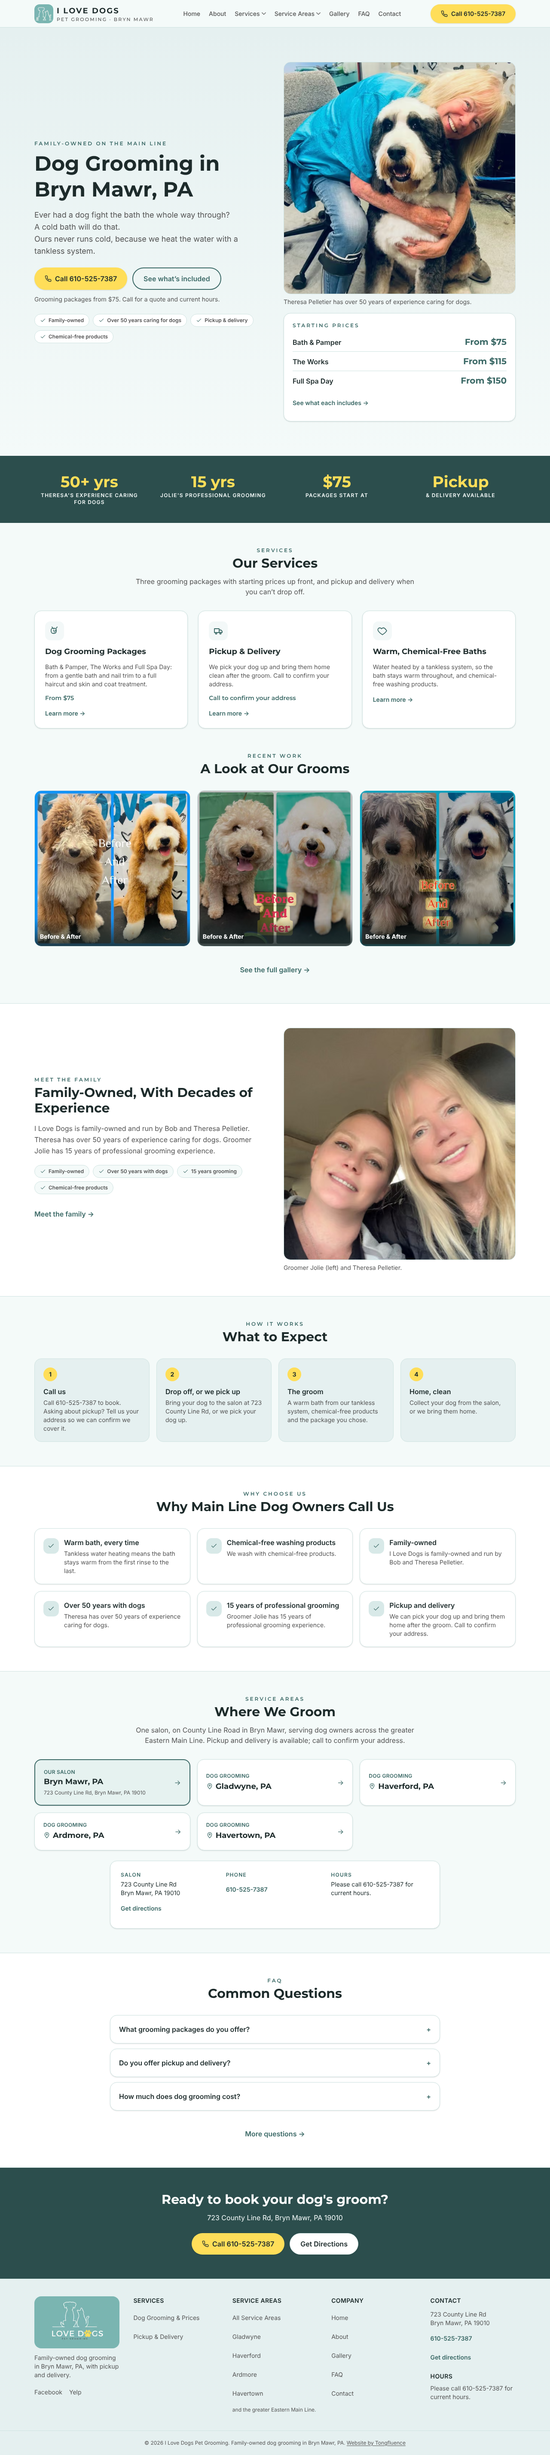
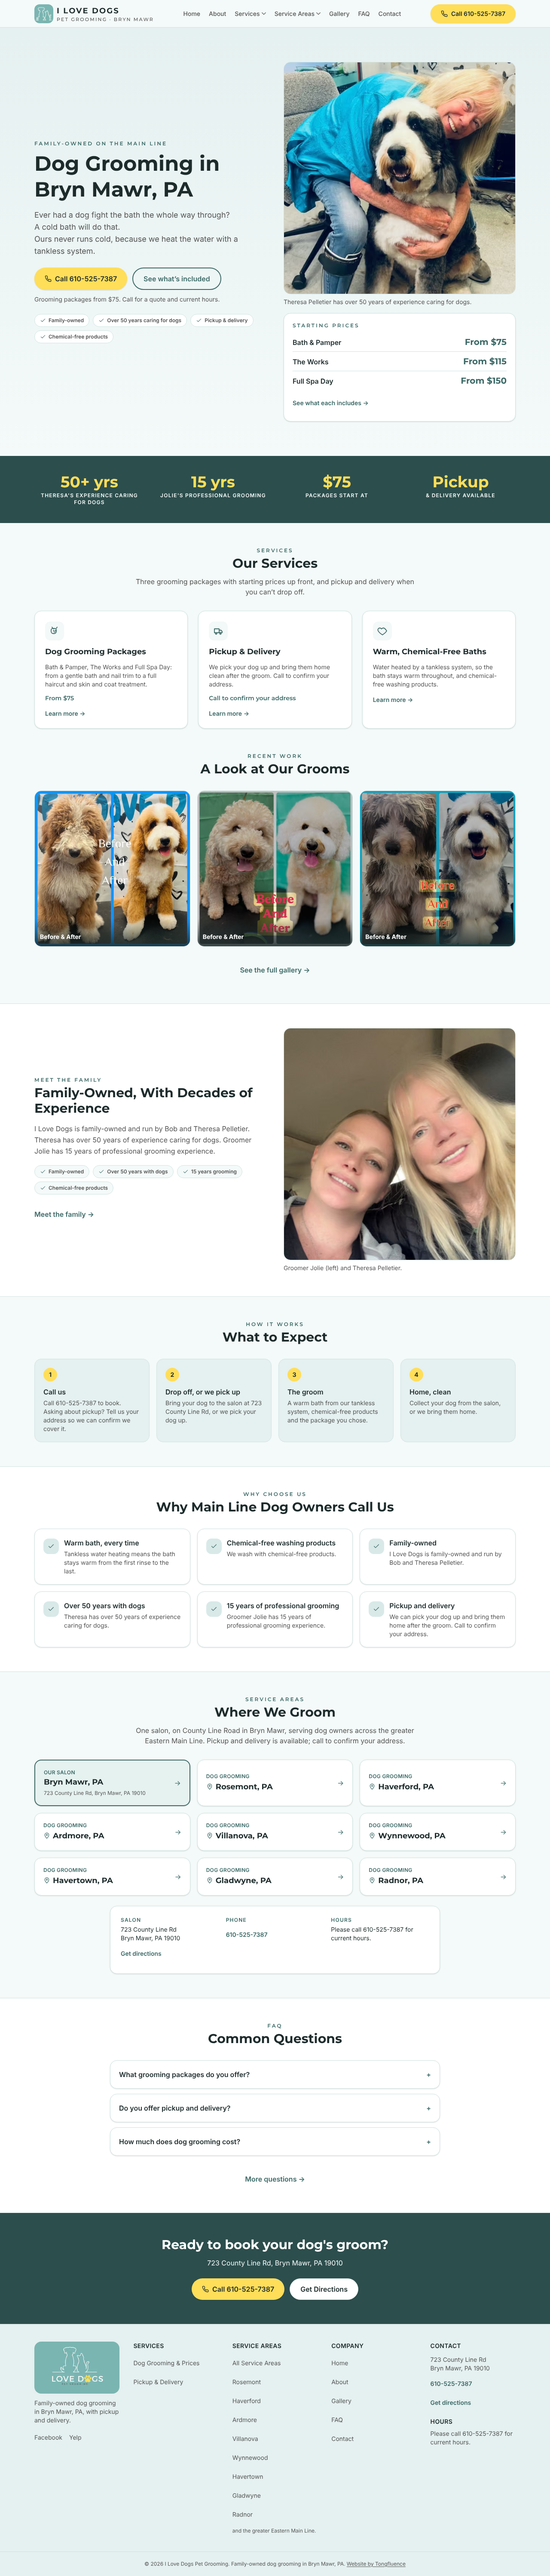
I Love Dogs: add Rosemont, Villanova, Wynnewood and Radnor town pages
The agency asked for every Main Line town within about a 10-minute drive
of the salon, middle class or higher. Screened by straight-line distance
from County Line Rd at Haverford Rd (road distance estimated at 1.35x,
about 22 mph average) and by 2019-2023 ACS median household income
against the Pennsylvania median of $76,081:

- In, new: Rosemont (~3 min), Villanova (~7), Wynnewood (~10),
  Radnor (~10).
- Already on the site and inside 10 minutes: Haverford, Ardmore,
  Havertown, Gladwyne.
- Out, just over 10 minutes: Penn Valley, Penn Wynne, Narberth and
  everything further.

Each new page states the one Bryn Mawr salon, its township and county,
and says to call to confirm pickup for the address. Income is never
shown. The town list now lives in one place (serviceAreas) and feeds the
LocalBusiness areaServed, the FAQ answer, the Service Area page and the
Pickup page. Sitemap: 16 URLs.

Claude-Session: https://claude.ai/code/session_014PeHDi31gYETWVDRHtoZgg

Changed region(s): [[0.0, 0.0, 1.0, 0.9977], [0.5938, 0.7483, 0.6562, 0.7795]]

diff --git a/i-love-dogs/lib/site-data.ts b/i-love-dogs/lib/site-data.ts
@@ -38,8 +38,25 @@ export const people = {
   jolie: "Groomer Jolie has 15 years of professional grooming experience.",
 } as const;
 
-// Towns served, as listed on the client's older website.
-export const serviceAreas = ["Bryn Mawr", "Gladwyne", "Haverford", "Ardmore", "Havertown"] as const;
+// Towns served, nearest first. The first five are from the client's older
+// website. Rosemont, Villanova, Wynnewood and Radnor were added by the agency:
+// Main Line towns within about a 10-minute drive of the salon, with median
+// household incomes at or above the Pennsylvania median (2019-2023 ACS).
+// Drive times are estimates from distance, not measured routes.
+export const serviceAreas = [
+  "Bryn Mawr",
+  "Rosemont",
+  "Haverford",
+  "Ardmore",
+  "Villanova",
+  "Wynnewood",
+  "Havertown",
+  "Gladwyne",
+  "Radnor",
+] as const;
+
+// "Bryn Mawr, Rosemont, ... and Radnor", for running text.
+export const serviceAreaList = `${serviceAreas.slice(0, -1).join(", ")} and ${serviceAreas[serviceAreas.length - 1]}`;
 
 export const serviceAreaGeneral = "the greater Eastern Main Line";
 
@@ -141,7 +158,7 @@ export const faqs = [
   },
   {
     question: "Which towns do you serve?",
-    answer: "We serve Bryn Mawr, Gladwyne, Haverford, Ardmore, Havertown and the greater Eastern Main Line.",
+    answer: `We serve ${serviceAreas.join(", ")} and the greater Eastern Main Line.`,
   },
   {
     question: "How much does dog grooming cost?",
@@ -175,12 +192,12 @@ export const PATHS = {
 // no town page: the home page targets it.
 export const townPages = [
   {
-    city: "Gladwyne",
-    slug: "/dog-grooming-gladwyne-pa/",
+    city: "Rosemont",
+    slug: "/dog-grooming-rosemont-pa/",
     intro:
-      "Gladwyne is in Lower Merion Township, Montgomery County, and it is one of the towns our salon on County Line Road in Bryn Mawr serves.",
+      "Rosemont, just west of Bryn Mawr, spans Lower Merion and Radnor townships, and it is one of the towns our salon on County Line Road serves.",
     angle:
-      "Gladwyne dog owners can bring their dog to the salon, or call to ask whether we can pick up from their address and bring their dog home after the groom.",
+      "Rosemont dog owners are close to the salon at 723 County Line Rd. Can't drop off? Call with your address and we will confirm whether pickup and delivery covers it.",
   },
   {
     city: "Haverford",
@@ -199,12 +216,44 @@ export const townPages = [
       "Ardmore dog owners can drop off at 723 County Line Rd, or call to ask about pickup and delivery from their address.",
   },
   {
+    city: "Villanova",
+    slug: "/dog-grooming-villanova-pa/",
+    intro:
+      "Villanova spans Radnor Township in Delaware County and Lower Merion Township in Montgomery County, and it is one of the towns our Bryn Mawr salon serves.",
+    angle:
+      "Villanova dog owners can bring their dog to the salon on County Line Road, or call to ask whether we can pick up from their address.",
+  },
+  {
+    city: "Wynnewood",
+    slug: "/dog-grooming-wynnewood-pa/",
+    intro:
+      "Wynnewood, east of Ardmore in Lower Merion Township, Montgomery County, is one of the Eastern Main Line towns our Bryn Mawr salon serves.",
+    angle:
+      "Wynnewood dog owners can drop off at the salon, or call with their address to ask about pickup and delivery.",
+  },
+  {
     city: "Havertown",
     slug: "/dog-grooming-havertown-pa/",
     intro:
       "Havertown is in Haverford Township, Delaware County, and it is one of the towns our salon on County Line Road in Bryn Mawr serves.",
     angle:
       "Havertown dog owners can bring their dog to the salon, or call with their address to ask whether we can pick up and bring their dog home clean.",
+  },
+  {
+    city: "Gladwyne",
+    slug: "/dog-grooming-gladwyne-pa/",
+    intro:
+      "Gladwyne is in Lower Merion Township, Montgomery County, and it is one of the towns our salon on County Line Road in Bryn Mawr serves.",
+    angle:
+      "Gladwyne dog owners can bring their dog to the salon, or call to ask whether we can pick up from their address and bring their dog home after the groom.",
+  },
+  {
+    city: "Radnor",
+    slug: "/dog-grooming-radnor-pa/",
+    intro:
+      "Radnor, west of Villanova in Radnor Township, Delaware County, is one of the Main Line towns our Bryn Mawr salon serves.",
+    angle:
+      "Radnor dog owners can bring their dog to the salon at 723 County Line Rd, or call with their address to ask about pickup and delivery.",
   },
 ] as const;
 

diff --git a/i-love-dogs/app/(site)/pickup-and-delivery/page.tsx b/i-love-dogs/app/(site)/pickup-and-delivery/page.tsx
@@ -1,5 +1,5 @@
 import Link from "next/link";
-import { business, faqs, PATHS, SITE_URL, townPages } from "@/lib/site-data";
+import { business, faqs, PATHS, SITE_URL, serviceAreas, townPages } from "@/lib/site-data";
 import { pageMetadata } from "@/lib/metadata";
 import { CallButton } from "@/components/CTAButton";
 import { Breadcrumbs } from "@/components/Breadcrumbs";
@@ -100,7 +100,7 @@ export default function PickupPage() {
         <div className="mx-auto max-w-6xl px-4 py-12">
           <h2 className="font-display text-2xl font-bold text-ink text-center">Towns We Serve</h2>
           <p className="mx-auto mt-3 max-w-2xl text-center text-ink-soft">
-            We serve Bryn Mawr, Gladwyne, Haverford, Ardmore, Havertown and the greater Eastern Main Line. Call{" "}
+            We serve {serviceAreas.join(", ")} and the greater Eastern Main Line. Call{" "}
             {business.phoneDisplay} with your address to confirm pickup.
           </p>
           <div className="mt-6 grid gap-3 sm:grid-cols-2 lg:grid-cols-4">

diff --git a/i-love-dogs/app/(site)/service-area/page.tsx b/i-love-dogs/app/(site)/service-area/page.tsx
@@ -1,4 +1,4 @@
-import { PATHS, SITE_URL } from "@/lib/site-data";
+import { PATHS, SITE_URL, serviceAreaList, serviceAreas } from "@/lib/site-data";
 import { pageMetadata } from "@/lib/metadata";
 import { CallButton } from "@/components/CTAButton";
 import { Breadcrumbs } from "@/components/Breadcrumbs";
@@ -11,11 +11,11 @@ import { CheckIcon } from "@/components/icons";
 export const metadata = pageMetadata({
   title: "Dog Groomer Serving the Eastern Main Line | Bryn Mawr, PA",
   description:
-    "I Love Dogs serves Bryn Mawr, Gladwyne, Haverford, Ardmore, Havertown and the greater Eastern Main Line. Call 610-525-7387.",
+    `I Love Dogs serves ${serviceAreaList}, PA. Call 610-525-7387.`,
   path: PATHS.serviceArea,
 });
 
-const towns = ["Bryn Mawr", "Gladwyne", "Haverford", "Ardmore", "Havertown", "The greater Eastern Main Line"];
+const towns = [...serviceAreas, "The greater Eastern Main Line"];
 
 export default function ServiceAreaPage() {
   return (

diff --git a/i-love-dogs/app/(site)/dog-grooming-villanova-pa/page.tsx b/i-love-dogs/app/(site)/dog-grooming-villanova-pa/page.tsx
@@ -1,0 +1,16 @@
+import { townPages } from "@/lib/site-data";
+import { pageMetadata } from "@/lib/metadata";
+import { TownPageContent } from "@/components/TownPageContent";
+
+const town = townPages.find((t) => t.city === "Villanova")!;
+
+export const metadata = pageMetadata({
+  title: "Dog Grooming Near Villanova, PA | I Love Dogs Pet Grooming",
+  description:
+    "Dog grooming for Villanova, PA from our Bryn Mawr salon, with pickup and delivery. Packages from $75. Call 610-525-7387.",
+  path: town.slug,
+});
+
+export default function VillanovaPage() {
+  return <TownPageContent town={town} />;
+}

diff --git a/i-love-dogs/app/(site)/dog-grooming-wynnewood-pa/page.tsx b/i-love-dogs/app/(site)/dog-grooming-wynnewood-pa/page.tsx
@@ -1,0 +1,16 @@
+import { townPages } from "@/lib/site-data";
+import { pageMetadata } from "@/lib/metadata";
+import { TownPageContent } from "@/components/TownPageContent";
+
+const town = townPages.find((t) => t.city === "Wynnewood")!;
+
+export const metadata = pageMetadata({
+  title: "Dog Grooming Near Wynnewood, PA | I Love Dogs Pet Grooming",
+  description:
+    "Dog grooming for Wynnewood, PA from our Bryn Mawr salon, with pickup and delivery. Packages from $75. Call 610-525-7387.",
+  path: town.slug,
+});
+
+export default function WynnewoodPage() {
+  return <TownPageContent town={town} />;
+}

diff --git a/i-love-dogs/app/(site)/dog-grooming-rosemont-pa/page.tsx b/i-love-dogs/app/(site)/dog-grooming-rosemont-pa/page.tsx
@@ -1,0 +1,16 @@
+import { townPages } from "@/lib/site-data";
+import { pageMetadata } from "@/lib/metadata";
+import { TownPageContent } from "@/components/TownPageContent";
+
+const town = townPages.find((t) => t.city === "Rosemont")!;
+
+export const metadata = pageMetadata({
+  title: "Dog Grooming Near Rosemont, PA | I Love Dogs Pet Grooming",
+  description:
+    "Dog grooming for Rosemont, PA from our Bryn Mawr salon, with pickup and delivery. Packages from $75. Call 610-525-7387.",
+  path: town.slug,
+});
+
+export default function RosemontPage() {
+  return <TownPageContent town={town} />;
+}

diff --git a/i-love-dogs/app/(site)/dog-grooming-radnor-pa/page.tsx b/i-love-dogs/app/(site)/dog-grooming-radnor-pa/page.tsx
@@ -1,0 +1,16 @@
+import { townPages } from "@/lib/site-data";
+import { pageMetadata } from "@/lib/metadata";
+import { TownPageContent } from "@/components/TownPageContent";
+
+const town = townPages.find((t) => t.city === "Radnor")!;
+
+export const metadata = pageMetadata({
+  title: "Dog Grooming Near Radnor, PA | I Love Dogs Pet Grooming",
+  description:
+    "Dog grooming for Radnor, PA from our Bryn Mawr salon, with pickup and delivery. Packages from $75. Call 610-525-7387.",
+  path: town.slug,
+});
+
+export default function RadnorPage() {
+  return <TownPageContent town={town} />;
+}

diff --git a/i-love-dogs/README.md b/i-love-dogs/README.md
@@ -64,9 +64,15 @@ browser.
   lettering. `logo-mark.png`, `app/icon.png`, `app/apple-icon.png` and
   `app/favicon.ico` are the dog-and-cat line art from the logo on its teal
   tile, with lines thickened slightly so they stay visible at small sizes.
-- `components/TownPageContent.tsx`: the template behind the four town pages
-  (`/dog-grooming-<town>-pa/`). Bryn Mawr has no town page; the home page
-  targets it.
+- `components/TownPageContent.tsx`: the template behind the eight town pages
+  (`/dog-grooming-<town>-pa/`): Rosemont, Haverford, Ardmore, Villanova,
+  Wynnewood, Havertown, Gladwyne and Radnor. Bryn Mawr has no town page; the
+  home page targets it. Gladwyne, Haverford, Ardmore and Havertown come from
+  the client's older site. The agency added Rosemont, Villanova, Wynnewood and
+  Radnor: Main Line towns within about a 10-minute drive of the salon (an
+  estimate from straight-line distance, not measured routes) with median
+  household incomes at or above the Pennsylvania median. Income is a targeting
+  criterion only and is never shown on the site.
 - `next.config.ts`: `trailingSlash: true`, and the 301s from the old
   Squarespace `/home` URL to `/`.
 
